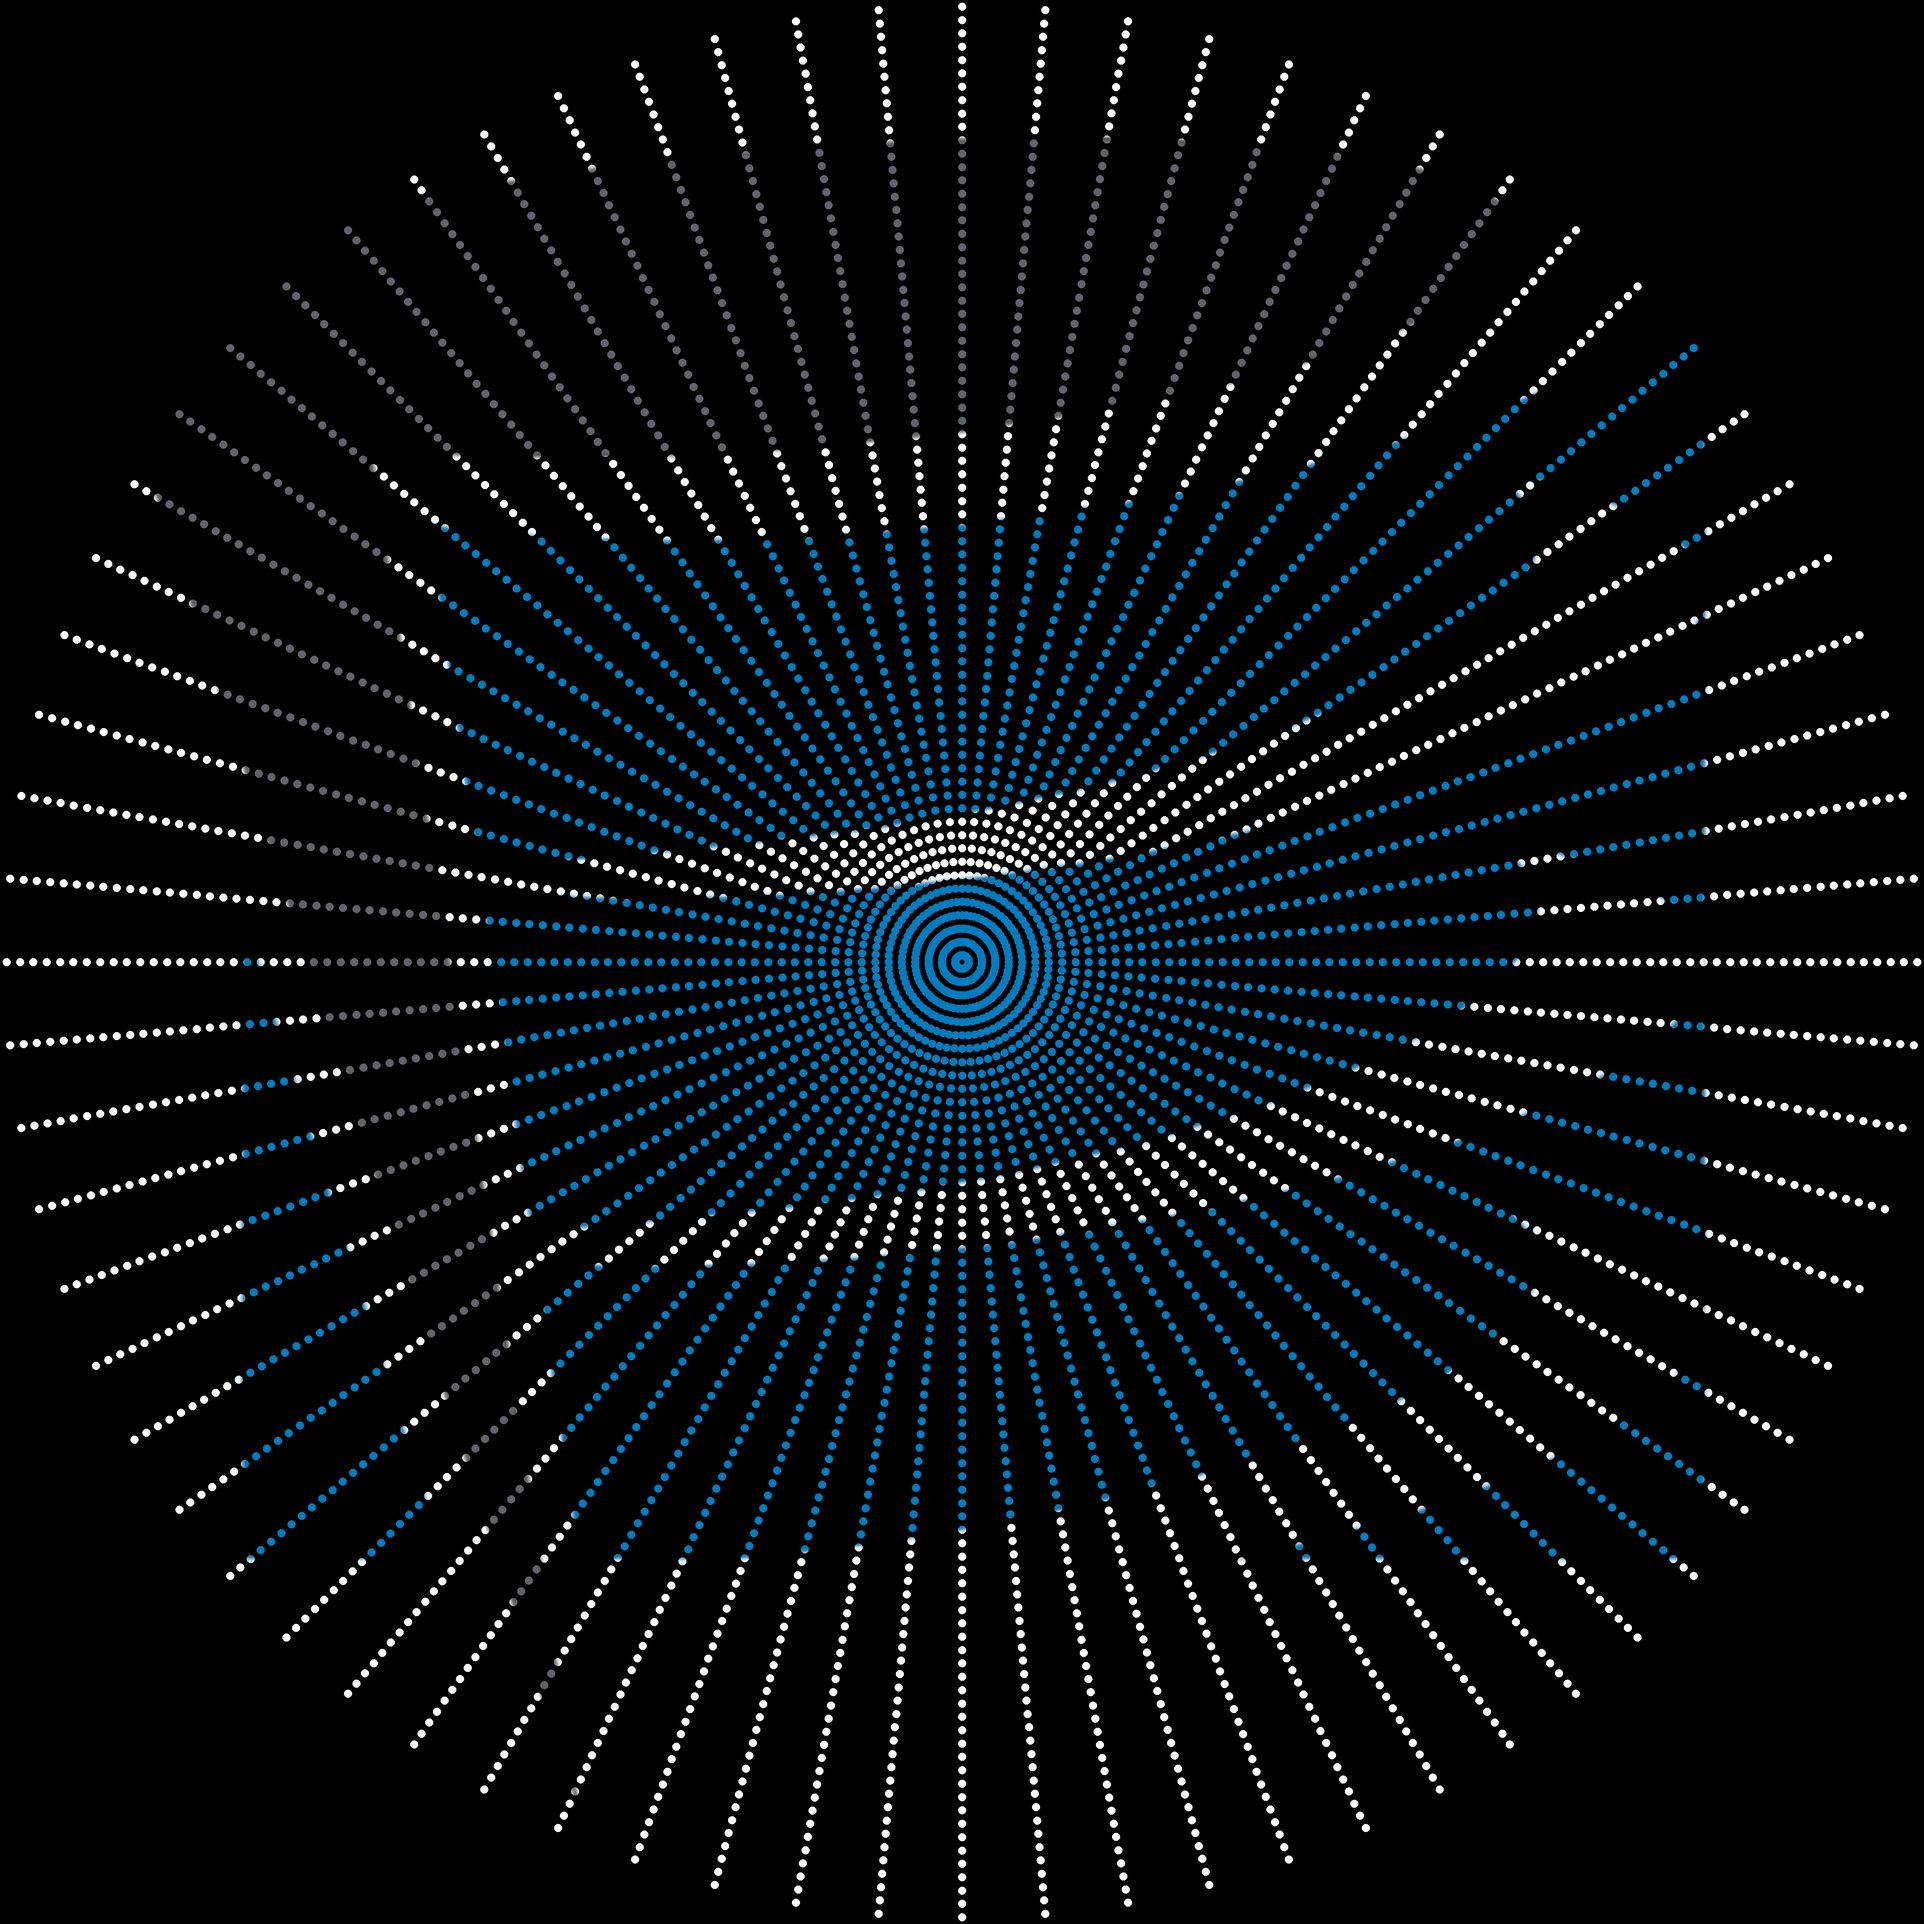
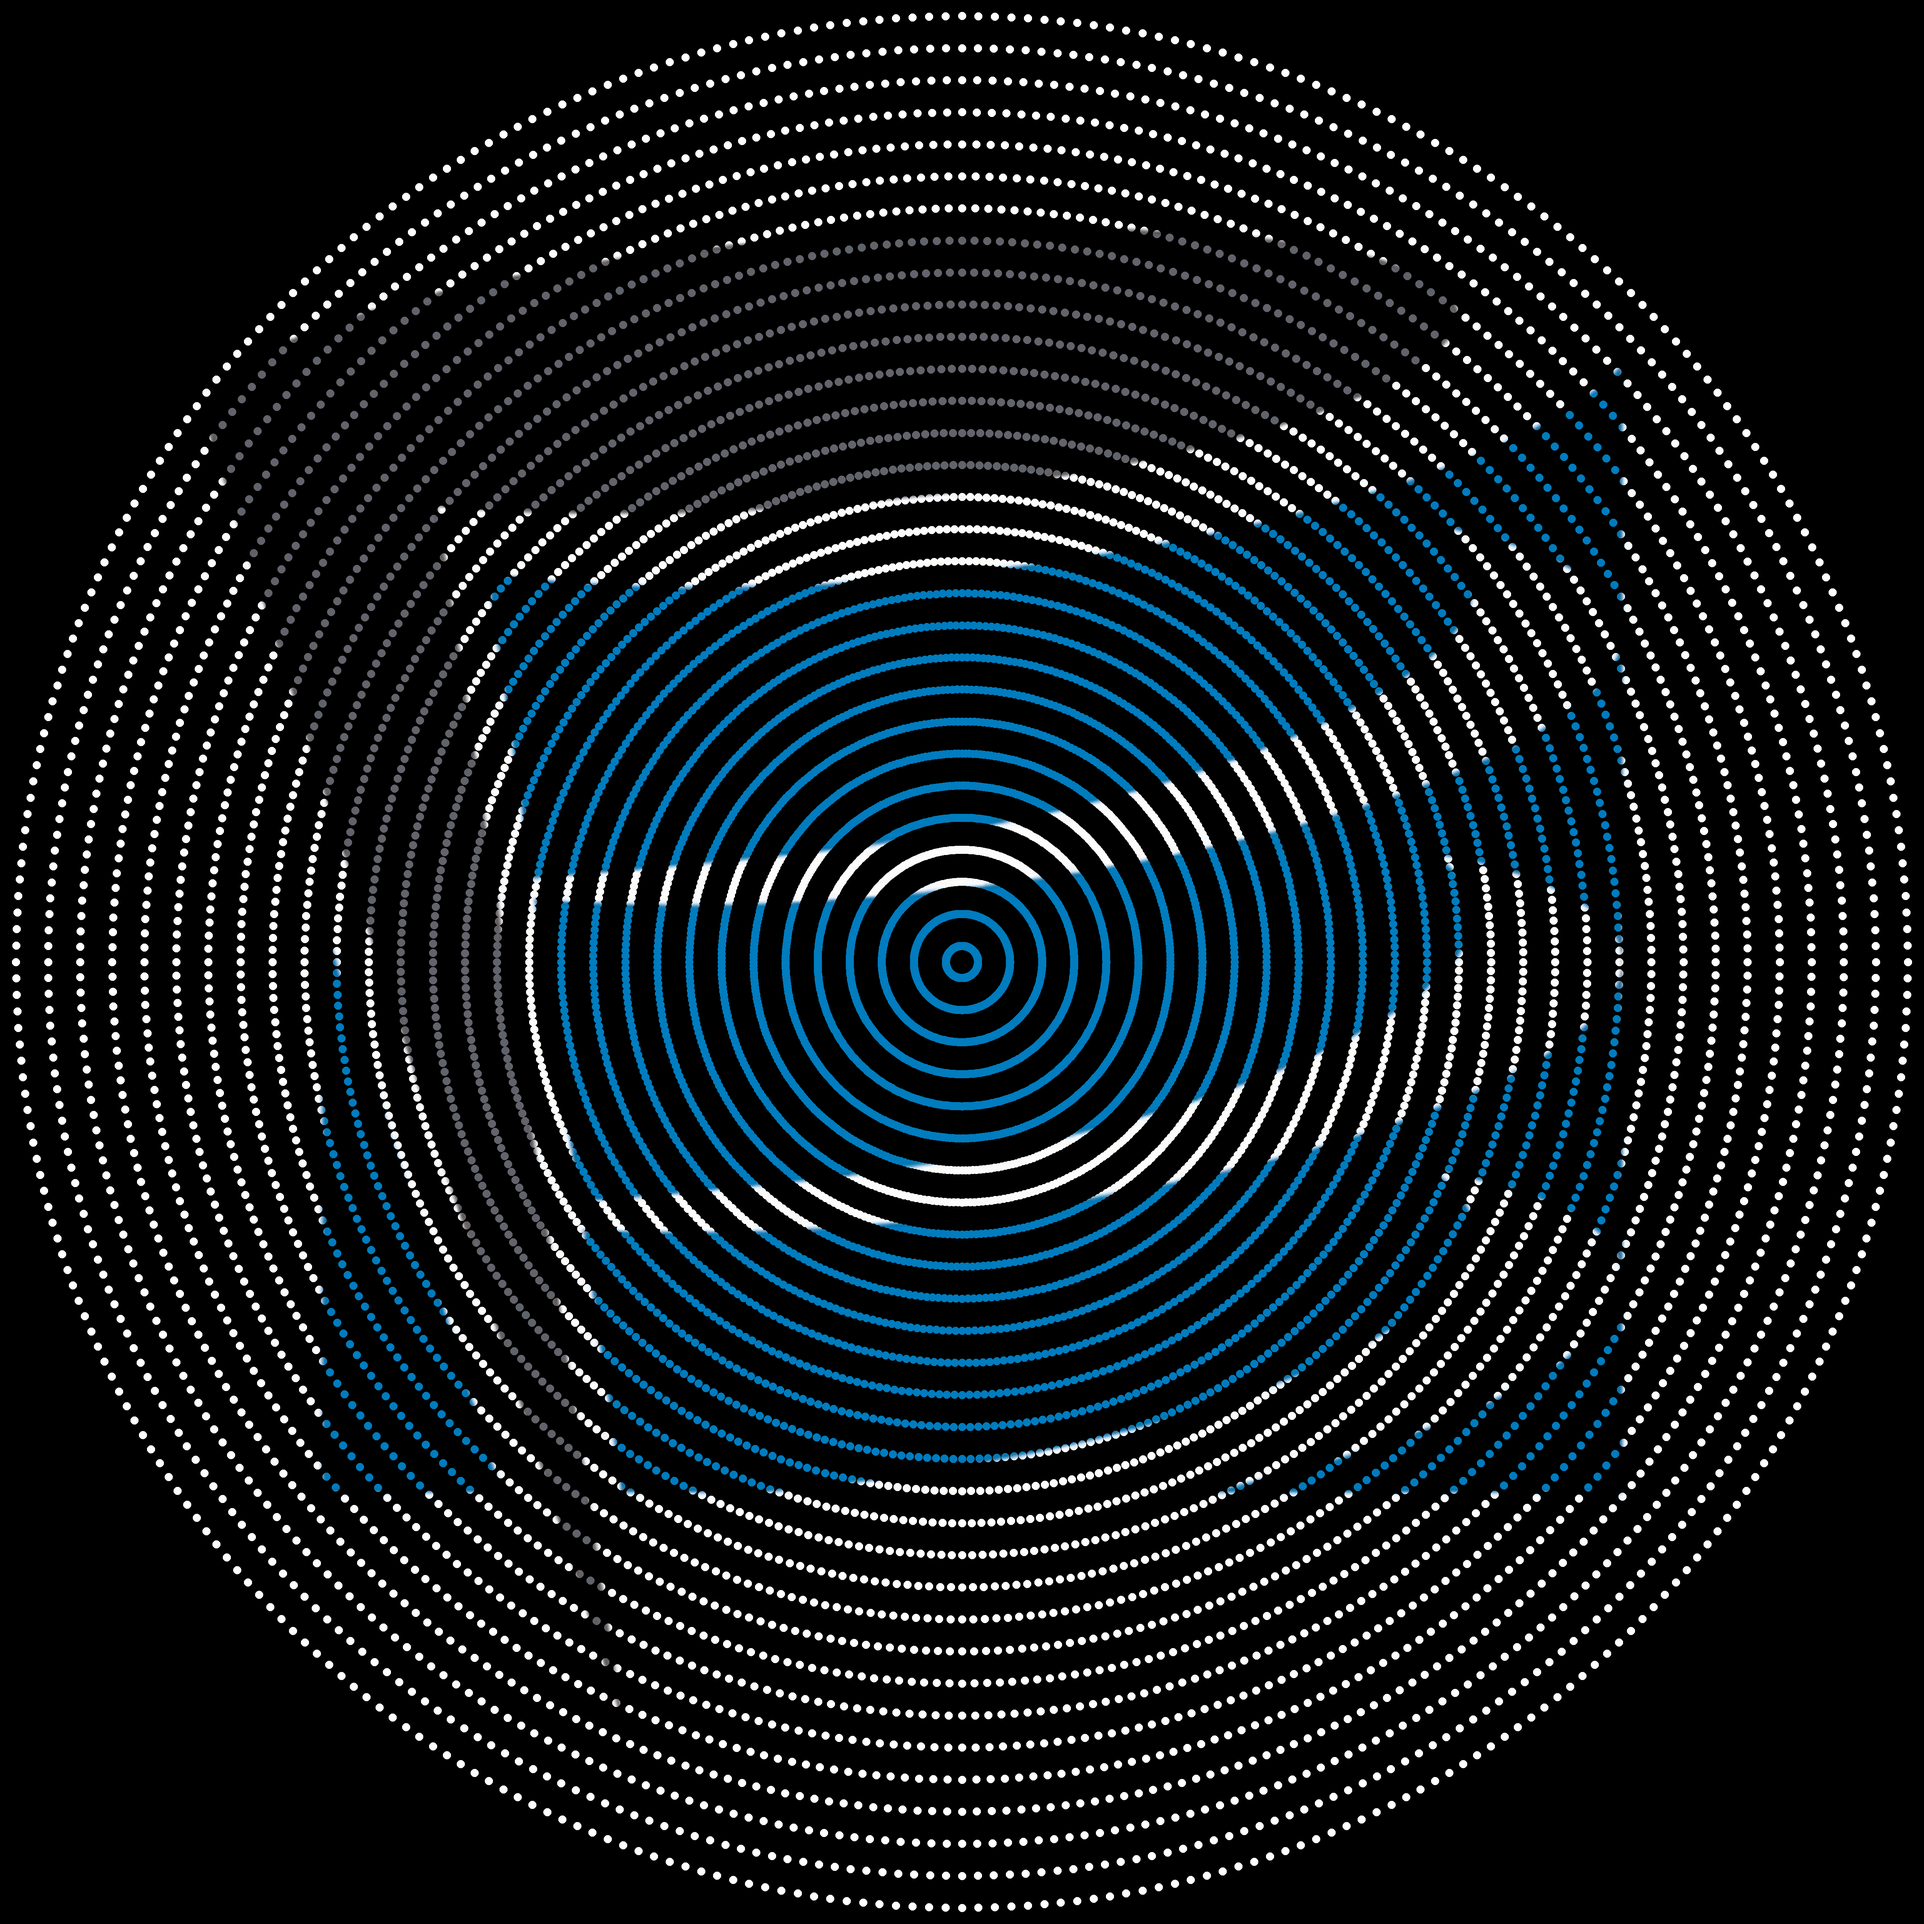
globalized step parameter

Changed region(s): [[0.0, 0.0, 0.9984, 0.9984]]

diff --git a/POVSimulator/main.py b/POVSimulator/main.py
@@ -76,10 +76,11 @@ def drillHoles(draw, maskDiameter, nbHoles, holesDiameter, angleStep, angleMin =
 # Configuration variables
 maskDiameter = 5000
 holesDiameter = 20
-nbHoles = 144
+nbHoles = 60
 imageFileName = 'logo_utbm.png'
 outputFileName = 'result.png'
-zoom = 90 #background image zoom in %
+step = 1
+zoom = 80 #background image zoom in %
 
 if __name__ == "__main__":
   mask = Image.new('RGBA', (maskDiameter, )*2, (255, 0, 0, 0)) # The mask is a black-filled image with transparent holes
@@ -89,7 +90,7 @@ if __name__ == "__main__":
   draw = ImageDraw.Draw(mask)
   draw.rectangle([(0, 0), (maskDiameter, maskDiameter)], 'black') #
 
-  drillHoles(draw, maskDiameter, nbHoles, holesDiameter, 5)
+  drillHoles(draw, maskDiameter, nbHoles, holesDiameter, step)
   #maskFileName = 'mask.png'
   #mask.save(maskFileName)
   backgroundImage = backgroundImage.convert('RGBA')
